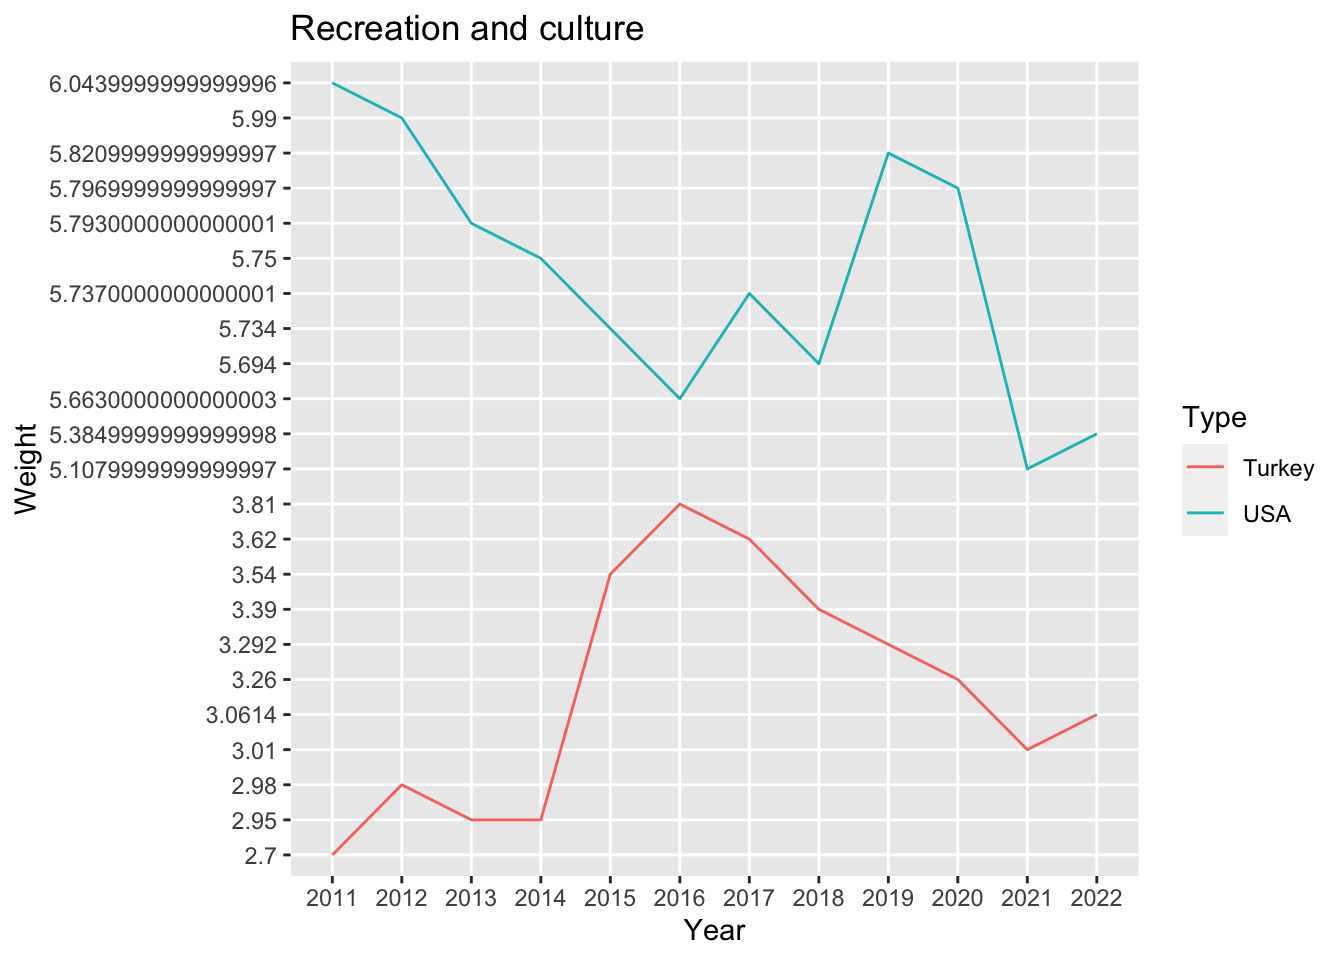
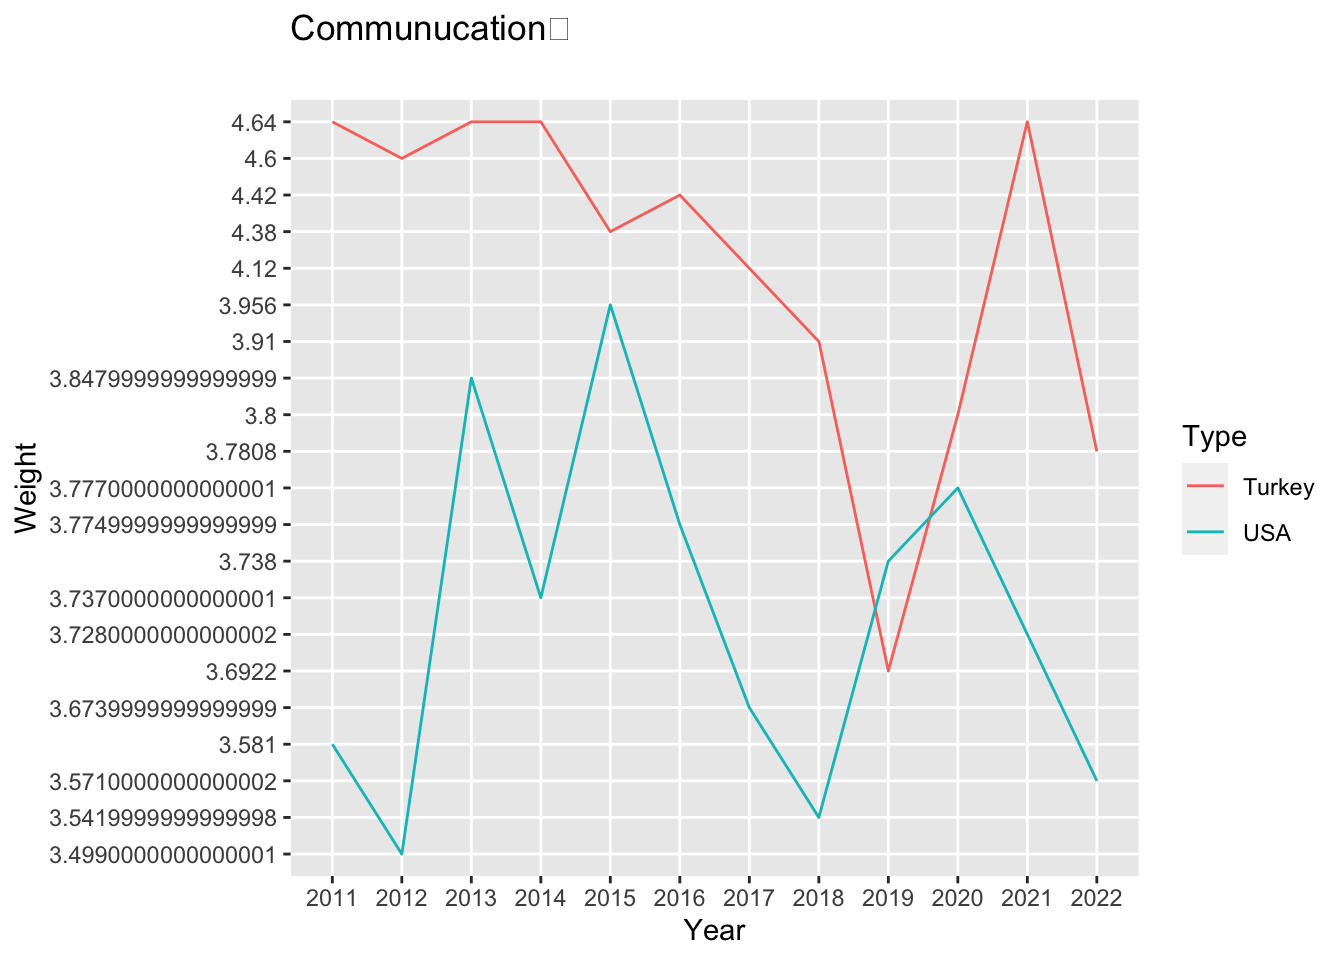
new

Changed region(s): [[0.0, 0.0, 0.8438, 0.9062], [0.875, 0.4062, 0.9688, 0.5625]]

diff --git a/docs/analysis.html b/docs/analysis.html
@@ -488,7 +488,7 @@ Attaching package: 'dplyr'</code></pre>
 </div>
 </div>
 <div class="cell">
-<div class="sourceCode cell-code" id="cb13"><pre class="sourceCode r code-with-copy"><code class="sourceCode r"><span id="cb13-1"><a href="#cb13-1" aria-hidden="true" tabindex="-1"></a>TUIK_Weighted_Expenditure <span class="ot">&lt;-</span> <span class="fu">read_excel</span>(<span class="st">"/Users/gorkemgunes/Desktop/TUIK-Weighted-Expenditure.xlsx"</span>)</span>
+<div class="sourceCode cell-code" id="cb13"><pre class="sourceCode r code-with-copy"><code class="sourceCode r"><span id="cb13-1"><a href="#cb13-1" aria-hidden="true" tabindex="-1"></a>TUIK_Weighted_Expenditure <span class="ot">&lt;-</span><span class="fu">read_excel</span>(<span class="st">"/Users/gorkemgunes/Desktop/TUIK-Weighted-Expenditure.xlsx"</span>)</span>
 <span id="cb13-2"><a href="#cb13-2" aria-hidden="true" tabindex="-1"></a>US_Weighted_Expenditure <span class="ot">&lt;-</span> <span class="fu">read_excel</span>(<span class="st">"/Users/gorkemgunes/Desktop/US-Weighted-Expenditure.xlsx"</span>)</span>
 <span id="cb13-3"><a href="#cb13-3" aria-hidden="true" tabindex="-1"></a></span>
 <span id="cb13-4"><a href="#cb13-4" aria-hidden="true" tabindex="-1"></a></span>
@@ -502,7 +502,7 @@ Attaching package: 'dplyr'</code></pre>
 <span id="cb13-12"><a href="#cb13-12" aria-hidden="true" tabindex="-1"></a>  <span class="fu">pivot_longer</span>(<span class="at">cols =</span> <span class="sc">-</span>Category, <span class="at">names_to =</span> <span class="st">"Year"</span>, <span class="at">values_to =</span> <span class="st">"Weight"</span>)</span>
 <span id="cb13-13"><a href="#cb13-13" aria-hidden="true" tabindex="-1"></a>subset_data_with_type <span class="ot">&lt;-</span> df_long <span class="sc">%&gt;%</span></span>
 <span id="cb13-14"><a href="#cb13-14" aria-hidden="true" tabindex="-1"></a>  <span class="fu">mutate</span>(<span class="at">Type =</span> <span class="st">"Turkey"</span>)</span>
-<span id="cb13-15"><a href="#cb13-15" aria-hidden="true" tabindex="-1"></a>subset_data <span class="ot">&lt;-</span> subset_data_with_type[<span class="dv">97</span><span class="sc">:</span><span class="dv">108</span>, ]</span>
+<span id="cb13-15"><a href="#cb13-15" aria-hidden="true" tabindex="-1"></a>subset_data <span class="ot">&lt;-</span> subset_data_with_type[<span class="dv">85</span><span class="sc">:</span><span class="dv">96</span>, ]</span>
 <span id="cb13-16"><a href="#cb13-16" aria-hidden="true" tabindex="-1"></a></span>
 <span id="cb13-17"><a href="#cb13-17" aria-hidden="true" tabindex="-1"></a>df <span class="ot">&lt;-</span> US_Weighted_Expenditure</span>
 <span id="cb13-18"><a href="#cb13-18" aria-hidden="true" tabindex="-1"></a></span>
@@ -513,7 +513,7 @@ Attaching package: 'dplyr'</code></pre>
 <span id="cb13-23"><a href="#cb13-23" aria-hidden="true" tabindex="-1"></a>  <span class="fu">pivot_longer</span>(<span class="at">cols =</span> <span class="sc">-</span>Category, <span class="at">names_to =</span> <span class="st">"Year"</span>, <span class="at">values_to =</span> <span class="st">"Weight"</span>)</span>
 <span id="cb13-24"><a href="#cb13-24" aria-hidden="true" tabindex="-1"></a>subset_data_usa <span class="ot">&lt;-</span> df_usa <span class="sc">%&gt;%</span></span>
 <span id="cb13-25"><a href="#cb13-25" aria-hidden="true" tabindex="-1"></a>  <span class="fu">mutate</span>(<span class="at">Type =</span> <span class="st">"USA"</span>)</span>
-<span id="cb13-26"><a href="#cb13-26" aria-hidden="true" tabindex="-1"></a>subset_usa <span class="ot">&lt;-</span> subset_data_usa[<span class="dv">85</span><span class="sc">:</span><span class="dv">96</span>, ]</span>
+<span id="cb13-26"><a href="#cb13-26" aria-hidden="true" tabindex="-1"></a>subset_usa <span class="ot">&lt;-</span> subset_data_usa[<span class="dv">73</span><span class="sc">:</span><span class="dv">84</span>, ]</span>
 <span id="cb13-27"><a href="#cb13-27" aria-hidden="true" tabindex="-1"></a>mixed_graph <span class="ot">&lt;-</span> <span class="fu">rbind</span>(subset_data,subset_usa)</span>
 <span id="cb13-28"><a href="#cb13-28" aria-hidden="true" tabindex="-1"></a></span>
 <span id="cb13-29"><a href="#cb13-29" aria-hidden="true" tabindex="-1"></a></span>
